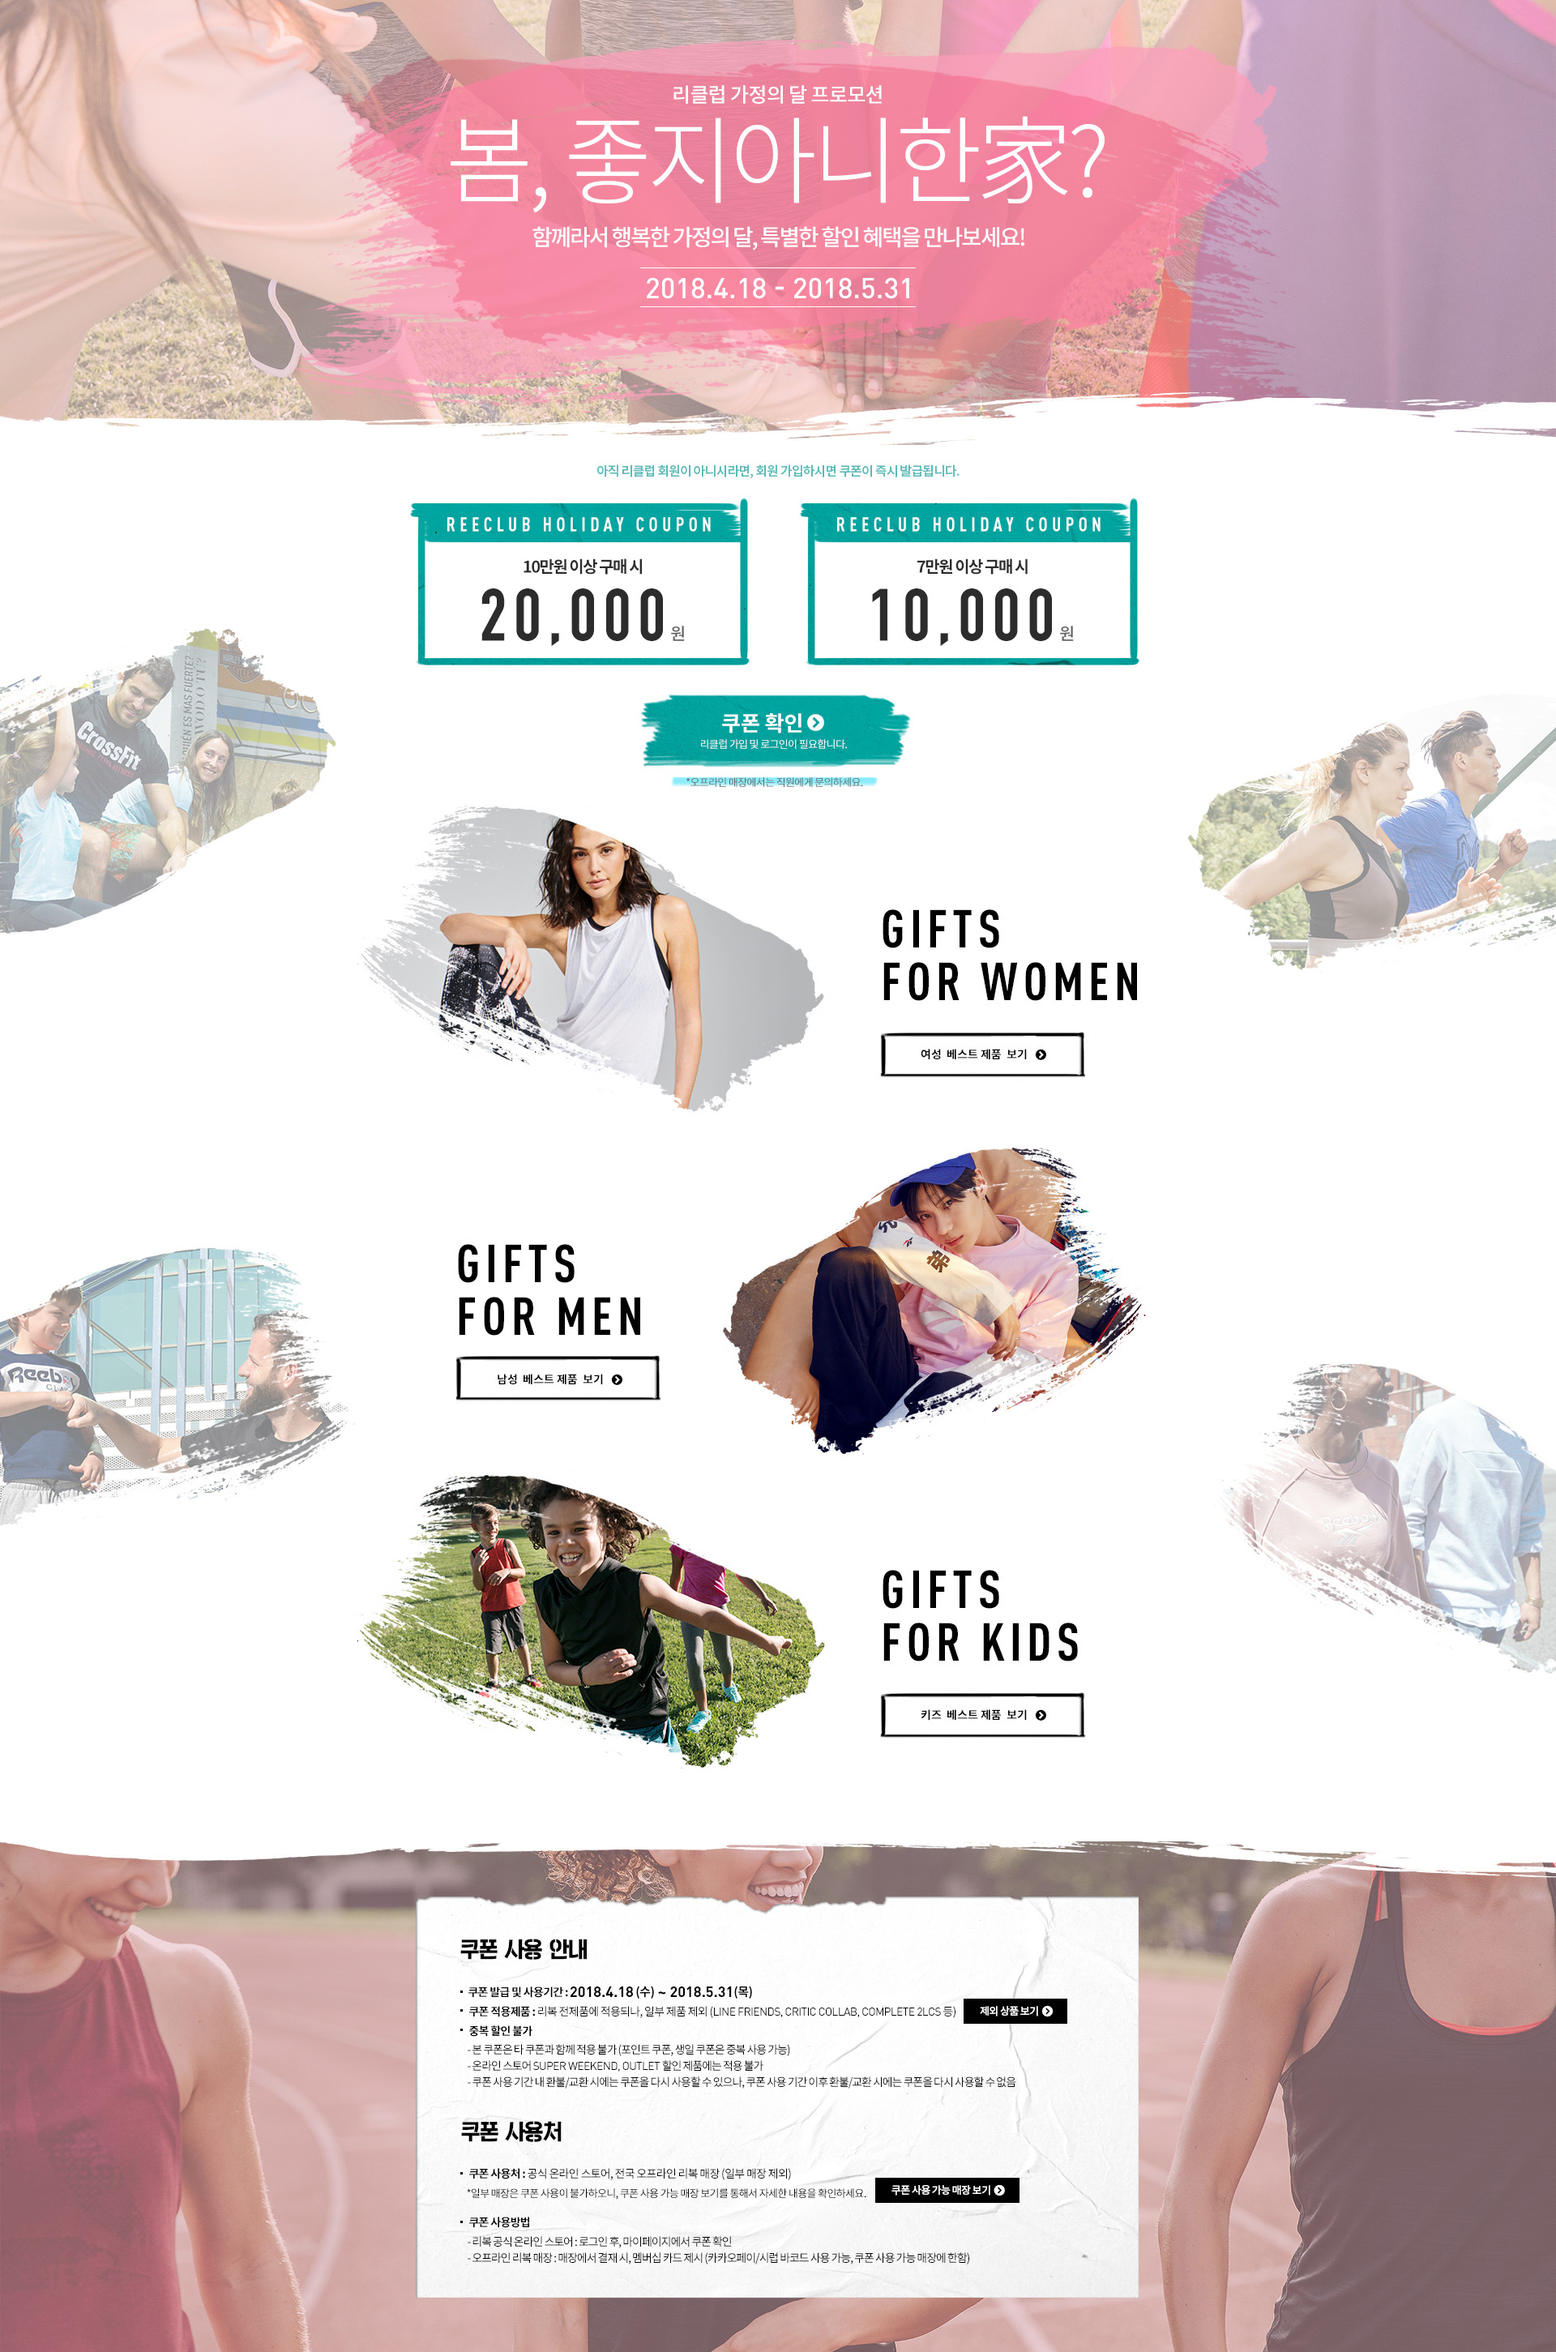
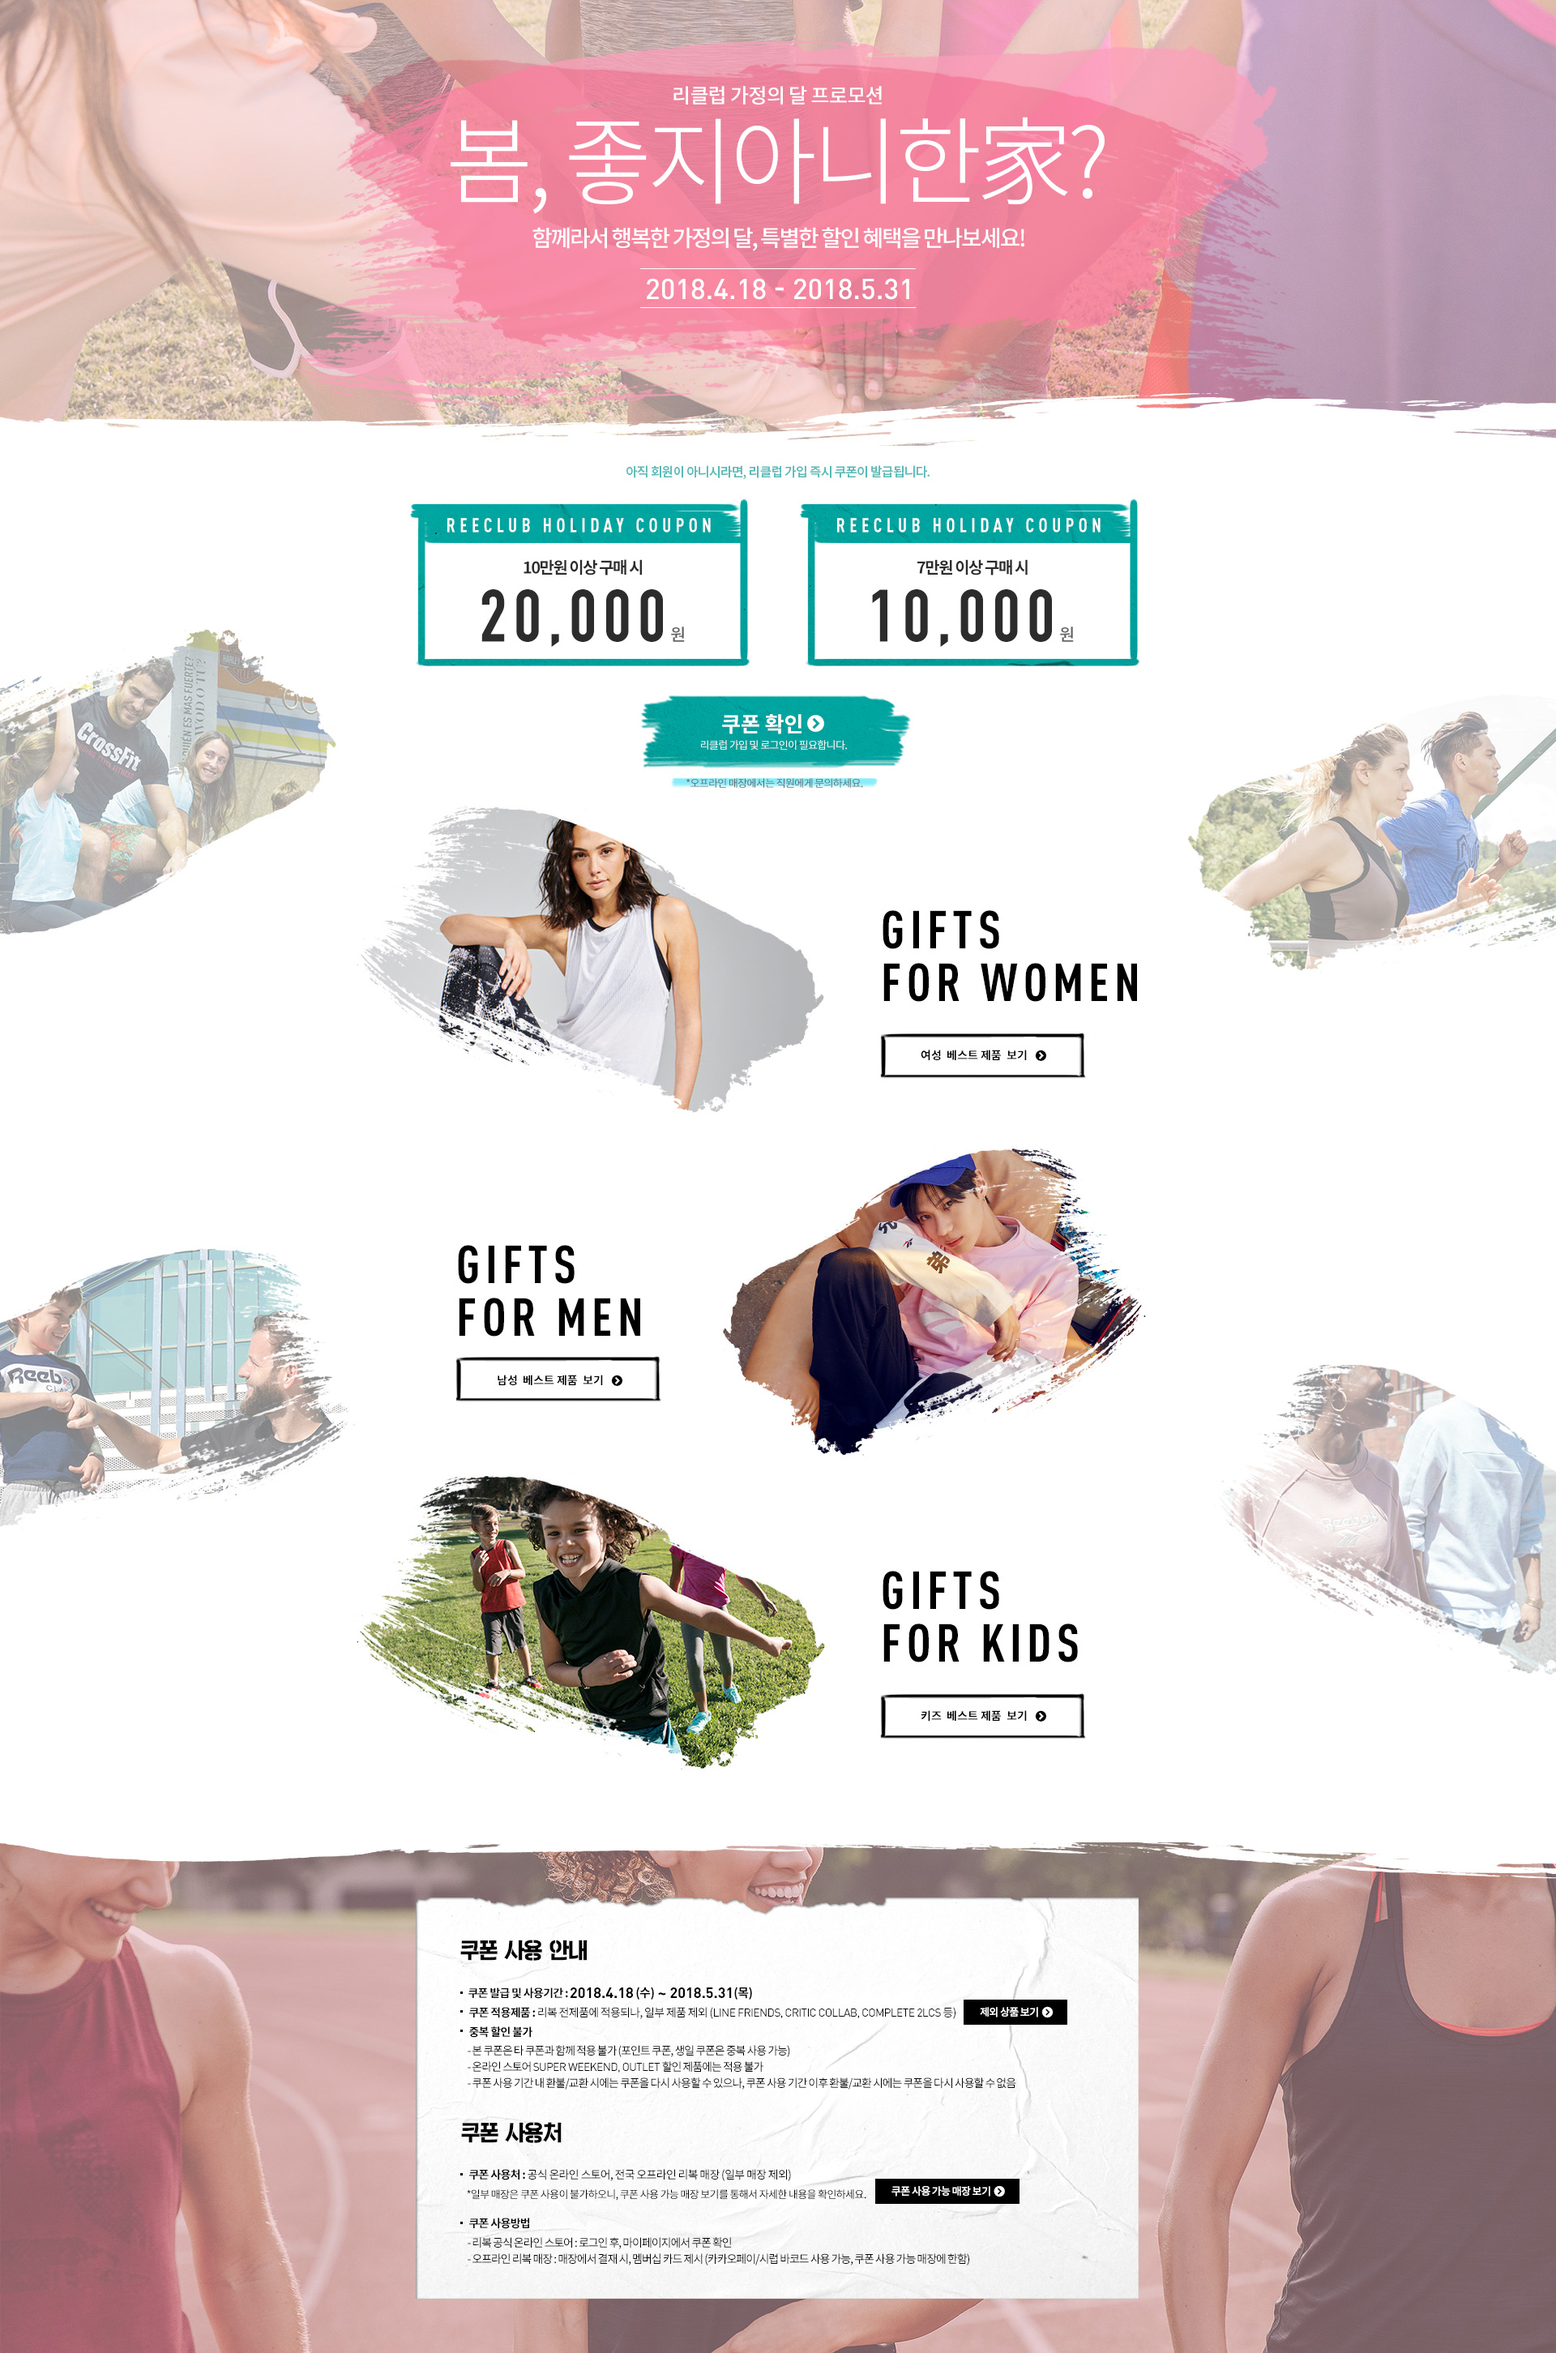
리복 홀리데이

diff --git a/app/html/reebok/event/holiday/201804/index.html b/app/html/reebok/event/holiday/201804/index.html
@@ -176,38 +176,38 @@
                <!-- //header_150930 -->
             </div>
 
-			<!-- 180411 holiday_201718_wrap  -->
+			<!-- 180411 holiday_2018_wrap  -->
 			<style type="text/css">
 			    #wrap{
 			        min-width: 1190px;
 			        overflow: hidden;
 			    }
-			    .holiday_201718_wrap{
+			    .holiday_2018_wrap{
 			        position: relative;
 			        height: 2900px;
 			        overflow: hidden;
 			    }
-			    #holiday_201718{
+			    #holiday_2018{
 			        /* height: 3706px; */
 			        position: absolute;
 			        left:50%;
 			        margin-left: -960px;
 			    }
-			    #holiday_201718 .box{
+			    #holiday_2018 .box{
 
 			    }
 			    .holiday_201709_pop>.popup{
 			        top:45% !important;
 			    }
 			    .holiday_201709_pop>.popup .popup-header>.close{
-			        top:-60px;
-			        right: 12px;
+                    top: -71px;
+                    right: 25px;
 			    }
 			    .holiday_201709_pop>.popup .popup-header>.close span{
 					display: block;
-				    background: url(http://image.reebok.co.kr/images/reebok/event/about/sprite.png) -80px 0 no-repeat;
+				    background: url('/images/reebok/event/holiday/close_btn_38x38.png') 0 0 no-repeat;
 					width: 45px;
-					    height: 45px;
+				    height: 45px;
 			        margin: 10px;
 			    }
 			    .holiday_201709_pop>.popup .popup-header{
@@ -220,9 +220,10 @@
 			        font-weight: 400;
 			    }
 			    .holiday_201709_pop>.popup .popup-contents{
-			        overflow-y: auto;
-			        overflow-x: hidden;
-			        height: 400px;
+                    overflow-y: auto;
+                    overflow-x: hidden;
+                    height: 332px;
+                    padding: 30px 30px 0;
 			    }
 			    .holiday_201709_pop>.popup .popup-contents .article{
 			        padding: 0 0 30px 0;
@@ -233,16 +234,16 @@
 			    }
 			    .holiday_201709_pop>.popup .popup-contents .article h3{
 			        padding: 0 0 10px 0;
-			        font:20px 'reefont-bold';
+			        font:20px 'dinpro bold';
 			        color:#000;
 			        text-transform: uppercase;
 			    }
 			    .holiday_201709_pop>.popup .popup-contents .article p{
-			        font:19px 'reefont';
+			        font:19px 'dinpro';
 			    }
 			</style>
-			<div class="holiday_201718_wrap">
-			    <div id="holiday_201718">
+			<div class="holiday_2018_wrap">
+			    <div id="holiday_2018">
 			        <div class="box">
 			            <img src="/images/reebok/event/holiday/201804/holiday.jpg" alt="" usemap="#map1">
 			            <map name="map1" id="map1">
@@ -253,7 +254,7 @@
 			                <area shape="rect" coords="1089,2090,1344,2150" href="http://shop.reebok.co.kr/RPF010103.action?S_LEVEL=5&S_CTGR_CD=02003" alt="키즈베스트">
 
 			                <area shape="rect" coords="1188,2465,1323,2498" class="modal-popup-click" data-modalpop-click="fade-popup" alt="제외상품보기">
-			                <area shape="rect" coords="1089,2687,1263,2723" href="http://shop.adidas.co.kr/upload/storelist/index.html?adidasHoliday201712" alt="쿠폰사용가능매장">
+			                <area shape="rect" coords="1089,2687,1263,2723" href="http://shop.adidas.co.kr/upload/storelist/index.html?reebokFamily201804" target="_blank" alt="쿠폰사용가능매장">
 
 			            </map>
 			        </div>
@@ -276,7 +277,7 @@
 			        });
 			    })(jQuery);
 			</script>
-			<!-- //180411 holiday_201718_wrap end -->
+			<!-- //180411 holiday_2018_wrap end -->
 
             <!-- footer_wrap -->
             <div id="footer_wrap">
@@ -325,7 +326,7 @@
 			    <div class="overlay"></div>
 			    <div class="popup">
 			        <div class="popup-header">
-			            <h2>홀리데이 쿠폰 제외 상품</h2>
+			            <h2>가정의 달 쿠폰 제외 상품</h2>
 			            <a href="javascript:void(0)" class="close"><span class=""></span></a>
 			        </div>
 			        <div class="popup-contents clfix">
